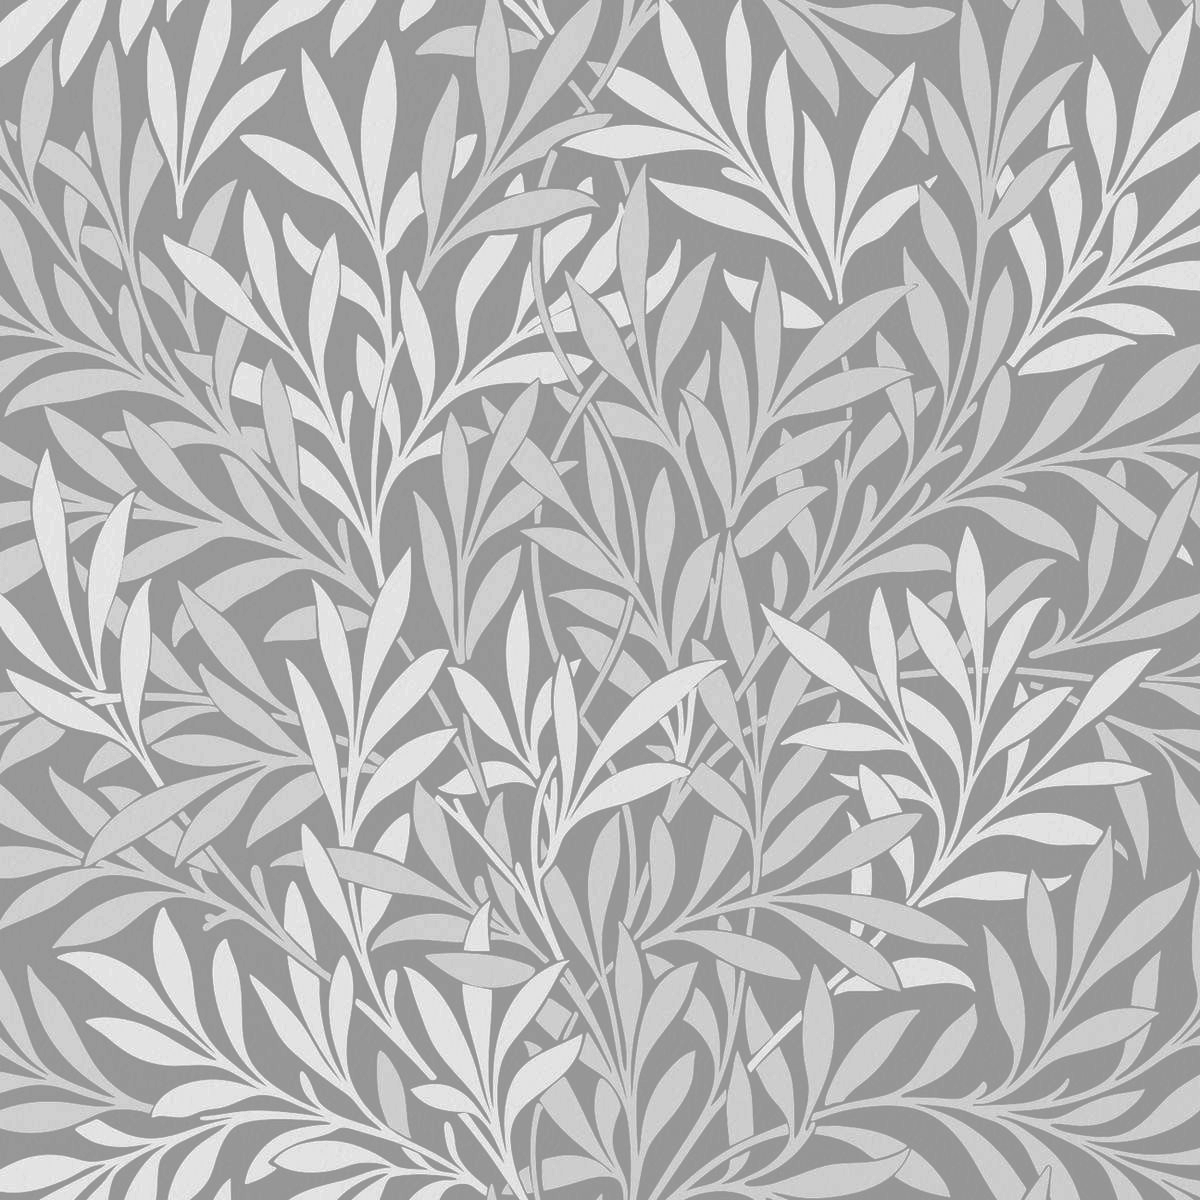
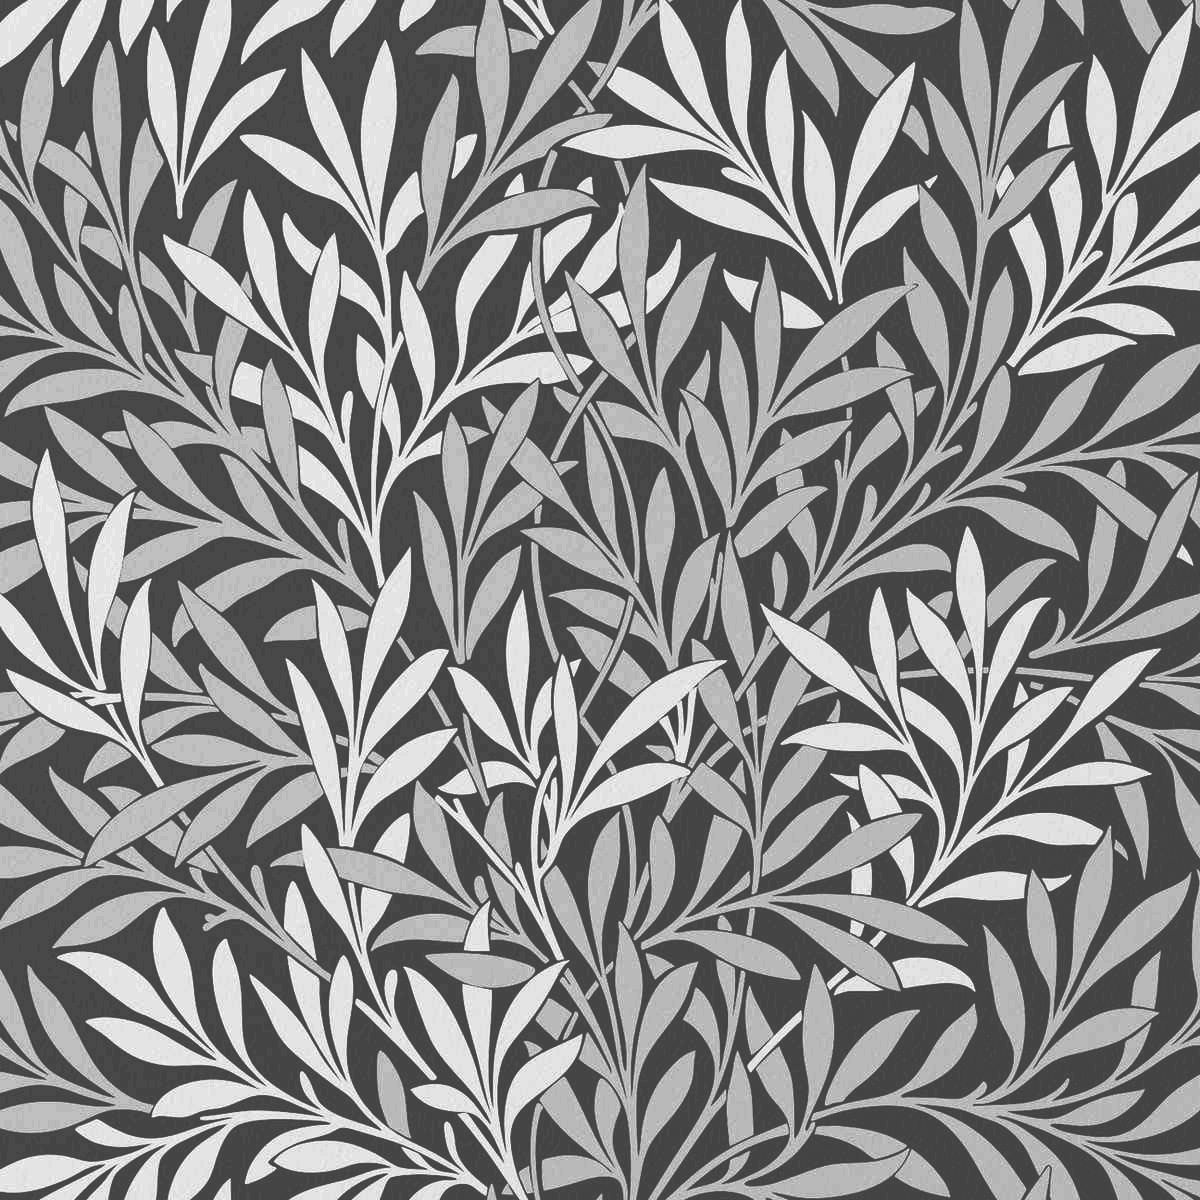
Tune surface overlay opacities, update willow branches background
JournalTemplate: hardcoded at 0.95 normal, 0.85 light bg
Other views (tokens): 0.92 normal, 0.8 light bg, 0.7 blur
Regenerated willow-branches thumbnail

diff --git a/client/src/components/templates/JournalTemplate.tsx b/client/src/components/templates/JournalTemplate.tsx
@@ -3,20 +3,24 @@ import type { ReactNode } from 'react';
 import { FontAwesomeIcon } from '@fortawesome/react-fontawesome';
 import { faChevronLeft } from '@fortawesome/free-solid-svg-icons';
 import { useUIStore } from '../../stores/uiStore.js';
+import { BACKGROUND_IMAGES } from '@chronicles/shared';
 const ContentArea = styled.div`
   display: flex;
   flex: 1;
   min-height: 0;
 `;
 
-const StyledSidePanel = styled.div<{ $hiddenMobile?: boolean; $isDark?: boolean }>`
+const StyledSidePanel = styled.div<{ $hiddenMobile?: boolean; $isDark?: boolean; $lightBg?: boolean }>`
   width: 380px;
   min-width: 380px;
   flex-shrink: 0;
   display: flex;
   flex-direction: column;
   overflow-y: auto;
-  background: ${({ $isDark }) => $isDark ? 'rgba(26, 24, 21, 0.90)' : 'rgba(240, 235, 223, 0.90)'};
+  background: ${({ $isDark, $lightBg }) =>
+    $isDark
+      ? ($lightBg ? 'rgba(26, 24, 21, 0.85)' : 'rgba(26, 24, 21, 0.95)')
+      : ($lightBg ? 'rgba(240, 235, 223, 0.85)' : 'rgba(240, 235, 223, 0.95)')};
   border-right: 1px solid ${({ theme }) => theme.colors.border};
 
   @media (max-width: 1024px) {
@@ -27,12 +31,15 @@ const StyledSidePanel = styled.div<{ $hiddenMobile?: boolean; $isDark?: boolean 
   }
 `;
 
-const StyledEditorPanel = styled.div<{ $visibleMobile?: boolean; $isDark?: boolean }>`
+const StyledEditorPanel = styled.div<{ $visibleMobile?: boolean; $isDark?: boolean; $lightBg?: boolean }>`
   flex: 1;
   display: flex;
   flex-direction: column;
   overflow: hidden;
-  background: ${({ $isDark }) => $isDark ? 'rgba(26, 24, 21, 0.90)' : 'rgba(240, 235, 223, 0.90)'};
+  background: ${({ $isDark, $lightBg }) =>
+    $isDark
+      ? ($lightBg ? 'rgba(26, 24, 21, 0.85)' : 'rgba(26, 24, 21, 0.95)')
+      : ($lightBg ? 'rgba(240, 235, 223, 0.85)' : 'rgba(240, 235, 223, 0.95)')};
 
   @media (max-width: 1024px) {
     display: ${({ $visibleMobile }) => $visibleMobile ? 'flex' : 'none'};
@@ -71,7 +78,9 @@ interface SidePanelProps {
 
 export function SidePanel({ hiddenMobile, children }: SidePanelProps) {
   const isDark = useUIStore(s => s.themeMode) === 'dark';
-  return <StyledSidePanel $hiddenMobile={hiddenMobile} $isDark={isDark}>{children}</StyledSidePanel>;
+  const backgroundImage = useUIStore(s => s.backgroundImage);
+  const isLightBg = BACKGROUND_IMAGES.find(bg => bg.value === backgroundImage)?.light ?? false;
+  return <StyledSidePanel $hiddenMobile={hiddenMobile} $isDark={isDark} $lightBg={isLightBg}>{children}</StyledSidePanel>;
 }
 
 interface EditorPanelProps {
@@ -81,7 +90,9 @@ interface EditorPanelProps {
 
 export function EditorPanel({ visibleMobile, children }: EditorPanelProps) {
   const isDark = useUIStore(s => s.themeMode) === 'dark';
-  return <StyledEditorPanel $visibleMobile={visibleMobile} $isDark={isDark}>{children}</StyledEditorPanel>;
+  const backgroundImage = useUIStore(s => s.backgroundImage);
+  const isLightBg = BACKGROUND_IMAGES.find(bg => bg.value === backgroundImage)?.light ?? false;
+  return <StyledEditorPanel $visibleMobile={visibleMobile} $isDark={isDark} $lightBg={isLightBg}>{children}</StyledEditorPanel>;
 }
 
 interface MobileBackButtonProps {

diff --git a/shared/src/theme/tokens.ts b/shared/src/theme/tokens.ts
@@ -92,8 +92,8 @@ export const lightTheme = {
     surface: '#f7f4ee',
     surfaceHover: '#f0eeea',
     surfaceOverlay: 'rgba(240, 235, 223, 0.92)',
-    surfaceOverlayLight: 'rgba(240, 235, 223, 0.85)',
-    surfaceOverlayBlur: 'rgba(240, 235, 223, 0.75)',
+    surfaceOverlayLight: 'rgba(240, 235, 223, 0.8)',
+    surfaceOverlayBlur: 'rgba(240, 235, 223, 0.7)',
 
     text: '#2b2824',
     textSecondary: '#453f38',
@@ -133,8 +133,8 @@ export const darkTheme = {
     surface: '#24211d',
     surfaceHover: '#2d2a25',
     surfaceOverlay: 'rgba(26, 24, 21, 0.92)',
-    surfaceOverlayLight: 'rgba(26, 24, 21, 0.70)',
-    surfaceOverlayBlur: 'rgba(26, 24, 21, 0.75)',
+    surfaceOverlayLight: 'rgba(26, 24, 21, 0.8)',
+    surfaceOverlayBlur: 'rgba(26, 24, 21, 0.7)',
 
     text: '#efeadd',
     textSecondary: '#cfc7b6',
